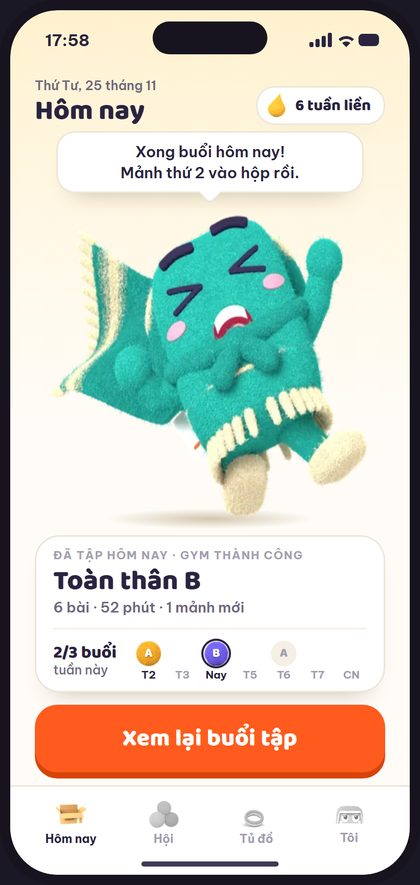
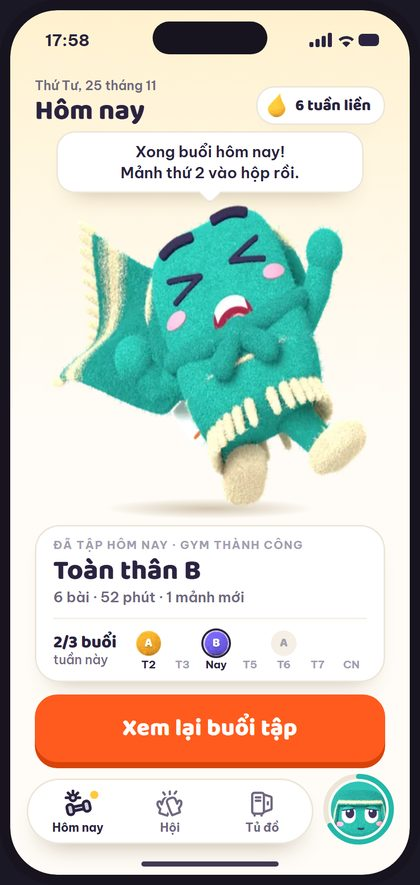
1.1: thay thanh điều hướng mới có hiệu ứng khi chạm

Changed region(s): [[0.0619, 0.2136, 0.9595, 0.9763], [0.7119, 0.9153, 0.7429, 0.9458], [0.0619, 0.9153, 0.0929, 0.9458]]

diff --git a/prototypes/1.1.html b/prototypes/1.1.html
@@ -138,6 +138,7 @@ button:focus-visible{outline:3px solid var(--ink);outline-offset:3px}
[6 lines of base64/hex data omitted]
 
@@ -194,11 +195,21 @@ button:focus-visible{outline:3px solid var(--ink);outline-offset:3px}
 .w11h .panel.lite{padding-top:4px;padding-bottom:8px}
 .w11h .linkbtn.more{margin:0 auto;height:42px;font-size:15.5px;color:var(--ink)}
 .w11h .linkbtn{margin-top:2px;height:34px}
-.tabs .off{position:absolute;margin:-30px 0 0 22px;width:10px;height:10px;border-radius:50%;background:var(--ink-3);box-shadow:0 0 0 2px #fff}
-.tabs button{position:relative}
-.tabs i{width:32px;height:30px;display:block;background-size:contain;background-repeat:no-repeat;background-position:center;filter:grayscale(1);opacity:.5}
-.tabs i.t-me{width:30px;height:28px;filter:grayscale(1) contrast(1.6);opacity:.55}
-.tabs button.on i{filter:none;opacity:1}
+/* ---------- the shared bottom nav (bar C): a white floating pill with labelled tabs + Khăn's orb as "Tôi" ----------
+   Active tab = the icon's soft fill and heavier stroke (from nav-anim.js), a bold ink label and a small yellow dot.
+   Never orange (orange is the primary button). In the flow under the CTA, 30 px above the home indicator. */
+.navg{flex:none;position:relative;z-index:6;display:flex;align-items:flex-end;gap:10px;padding:2px 16px 30px}
+.navg .navbar{flex:1;height:64px;border-radius:32px;background:#fff;box-shadow:0 0 0 1.5px var(--line) inset,0 14px 26px -16px rgba(86,60,22,.45);display:grid;grid-template-columns:repeat(3,1fr);padding:5px}
+.navg .tab{position:relative;display:flex;flex-direction:column;align-items:center;justify-content:center;gap:3px;border-radius:26px;color:var(--ink-2);font:700 11.5px/1 var(--body)}
+.navg .tab.on{color:var(--ink);font-weight:800}
+.navg .tab em{position:absolute;top:7px;right:calc(50% - 20px);width:8px;height:8px;border-radius:50%;background:#FFC93C;box-shadow:0 0 0 2px #fff;opacity:0}
+.navg .tab.on em{opacity:1}
+.navg .tab .off{position:absolute;top:8px;left:calc(50% + 10px);width:9px;height:9px;border-radius:50%;background:var(--ink-3);box-shadow:0 0 0 2px #fff}
+.navg .orb{flex:none;position:relative;width:68px;height:68px;border-radius:50%}
+.navg .orb .ring{position:absolute;inset:-1px;width:70px;height:70px}
+.navg .orb i{position:absolute;inset:7px;border-radius:50%;background-color:#2EC4B6;background-size:118% auto;background-position:50% 22%;background-repeat:no-repeat;box-shadow:inset 0 -3px 0 rgba(0,0,0,.08)}
+.navg .tab:active,.navg .orb:active{transform:scale(.95)}
+.w11h .panel{padding-bottom:10px}
 @media (prefers-reduced-motion:reduce){.zz{animation:none}}
 </style>
 
@@ -219,7 +230,7 @@ button:focus-visible{outline:3px solid var(--ink);outline-offset:3px}
       <div class="pad"><div class="card today"><span class="caps">Buổi hôm nay · Gym Thành Công</span><h3>Toàn thân B</h3><p class="meta">6 bài · khoảng 50 phút</p>
         <div class="wkrow"><span class="cnt"><b>1/3 buổi</b>tuần này</span><div class="wk"><span class="dy on pl"><i class="d-amber">A</i><em>T2</em></span><span class="dy"><i class=""></i><em>T3</em></span><span class="dy pl td"><i class="">B</i><em>Nay</em></span><span class="dy"><i class=""></i><em>T5</em></span><span class="dy pl"><i class="">A</i><em>T6</em></span><span class="dy"><i class=""></i><em>T7</em></span><span class="dy"><i class=""></i><em>CN</em></span></div></div></div></div>
       <div class="pad panel"><button class="btn-main" data-go="1.2">Vào tập</button></div>
-      <nav class="tabs"><button class="on"><i class="t-box"></i>Hôm nay</button><button class=""><i class="t-hoi"></i>Hội</button><button class=""><i class="t-wear"></i>Tủ đồ</button><button class=""><i class="t-me"></i>Tôi</button></nav>
+      <nav class="navg"><div class="navbar"><button class="tab on" data-icon="homnay" aria-current="page"><span>Hôm nay</span><em></em></button><button class="tab" data-icon="hoi"><span>Hội</span><em></em></button><button class="tab" data-icon="tudo"><span>Tủ đồ</span><em></em></button></div><button class="orb" aria-label="Tôi, tuần này 1 trên 3 buổi"><svg class="ring" viewBox="0 0 70 70" aria-hidden="true"><circle cx="35" cy="35" r="32" fill="none" stroke="#EDE5D8" stroke-width="5"/><circle cx="35" cy="35" r="32" fill="none" stroke="#22B8A9" stroke-width="5" stroke-linecap="round" stroke-dasharray="67.0 201" transform="rotate(-90 35 35)"/></svg><i class="o-face"></i></button></nav>
       <div class="toast" role="status"></div>
       <div class="home"></div>
     </div></div></div>
@@ -234,7 +245,7 @@ button:focus-visible{outline:3px solid var(--ink);outline-offset:3px}
       <div class="pad"><div class="card today"><span class="caps">Hôm nay nghỉ</span><h3>Buổi kế: Thứ Sáu</h3><p class="meta">Toàn thân A · Gym Thành Công</p>
         <div class="wkrow"><span class="cnt"><b>2/3 buổi</b>tuần này</span><div class="wk"><span class="dy on pl"><i class="d-amber">A</i><em>T2</em></span><span class="dy"><i class=""></i><em>T3</em></span><span class="dy on pl"><i class="d-violet">B</i><em>T4</em></span><span class="dy td"><i class=""></i><em>Nay</em></span><span class="dy pl"><i class="">A</i><em>T6</em></span><span class="dy"><i class=""></i><em>T7</em></span><span class="dy"><i class=""></i><em>CN</em></span></div></div></div></div>
       <div class="pad panel lite"><button class="linkbtn more" data-go="1.2">Tập thêm hôm nay</button></div>
-      <nav class="tabs"><button class="on"><i class="t-box"></i>Hôm nay</button><button class=""><i class="t-hoi"></i>Hội</button><button class=""><i class="t-wear"></i>Tủ đồ</button><button class=""><i class="t-me"></i>Tôi</button></nav>
+      <nav class="navg"><div class="navbar"><button class="tab on" data-icon="homnay" aria-current="page"><span>Hôm nay</span><em></em></button><button class="tab" data-icon="hoi"><span>Hội</span><em></em></button><button class="tab" data-icon="tudo"><span>Tủ đồ</span><em></em></button></div><button class="orb" aria-label="Tôi, tuần này 2 trên 3 buổi"><svg class="ring" viewBox="0 0 70 70" aria-hidden="true"><circle cx="35" cy="35" r="32" fill="none" stroke="#EDE5D8" stroke-width="5"/><circle cx="35" cy="35" r="32" fill="none" stroke="#22B8A9" stroke-width="5" stroke-linecap="round" stroke-dasharray="134.0 201" transform="rotate(-90 35 35)"/></svg><i class="o-face"></i></button></nav>
       <div class="toast" role="status"></div>
       <div class="home"></div>
     </div></div></div>
@@ -249,7 +260,7 @@ button:focus-visible{outline:3px solid var(--ink);outline-offset:3px}
       <div class="pad"><div class="card today"><span class="caps">Đã tập hôm nay · Gym Thành Công</span><h3>Toàn thân B</h3><p class="meta">6 bài · 52 phút · 1 mảnh mới</p>
         <div class="wkrow"><span class="cnt"><b>2/3 buổi</b>tuần này</span><div class="wk"><span class="dy on pl"><i class="d-amber">A</i><em>T2</em></span><span class="dy"><i class=""></i><em>T3</em></span><span class="dy on pl td"><i class="d-violet">B</i><em>Nay</em></span><span class="dy"><i class=""></i><em>T5</em></span><span class="dy pl"><i class="">A</i><em>T6</em></span><span class="dy"><i class=""></i><em>T7</em></span><span class="dy"><i class=""></i><em>CN</em></span></div></div></div></div>
       <div class="pad panel"><button class="btn-main" data-go="1.3">Xem lại buổi tập</button></div>
-      <nav class="tabs"><button class="on"><i class="t-box"></i>Hôm nay</button><button class=""><i class="t-hoi"></i>Hội</button><button class=""><i class="t-wear"></i>Tủ đồ</button><button class=""><i class="t-me"></i>Tôi</button></nav>
+      <nav class="navg"><div class="navbar"><button class="tab on" data-icon="homnay" aria-current="page"><span>Hôm nay</span><em></em></button><button class="tab" data-icon="hoi"><span>Hội</span><em></em></button><button class="tab" data-icon="tudo"><span>Tủ đồ</span><em></em></button></div><button class="orb" aria-label="Tôi, tuần này 2 trên 3 buổi"><svg class="ring" viewBox="0 0 70 70" aria-hidden="true"><circle cx="35" cy="35" r="32" fill="none" stroke="#EDE5D8" stroke-width="5"/><circle cx="35" cy="35" r="32" fill="none" stroke="#22B8A9" stroke-width="5" stroke-linecap="round" stroke-dasharray="134.0 201" transform="rotate(-90 35 35)"/></svg><i class="o-face"></i></button></nav>
       <div class="toast" role="status"></div>
       <div class="home"></div>
     </div></div></div>
@@ -264,7 +275,7 @@ button:focus-visible{outline:3px solid var(--ink);outline-offset:3px}
       <div class="pad"><div class="card today"><span class="caps">Tuần này đủ rồi</span><h3>Buổi kế: Thứ Hai</h3><p class="meta">Tập thêm vẫn khoẻ, nhưng không có thêm mảnh: mỗi tuần một món thôi.</p>
         <div class="wkrow"><span class="cnt"><b>3/3 buổi</b>tuần này</span><div class="wk"><span class="dy on pl"><i class="d-amber">A</i><em>T2</em></span><span class="dy"><i class=""></i><em>T3</em></span><span class="dy on pl"><i class="d-violet">B</i><em>T4</em></span><span class="dy"><i class=""></i><em>T5</em></span><span class="dy on pl"><i class="d-amber">A</i><em>T6</em></span><span class="dy td"><i class=""></i><em>Nay</em></span><span class="dy"><i class=""></i><em>CN</em></span></div></div></div></div>
       <div class="pad panel lite"><button class="linkbtn more" data-go="1.2">Tập thêm hôm nay</button></div>
-      <nav class="tabs"><button class="on"><i class="t-box"></i>Hôm nay</button><button class=""><i class="t-hoi"></i>Hội</button><button class=""><i class="t-wear"></i>Tủ đồ</button><button class=""><i class="t-me"></i>Tôi</button></nav>
+      <nav class="navg"><div class="navbar"><button class="tab on" data-icon="homnay" aria-current="page"><span>Hôm nay</span><em></em></button><button class="tab" data-icon="hoi"><span>Hội</span><em></em></button><button class="tab" data-icon="tudo"><span>Tủ đồ</span><em></em></button></div><button class="orb" aria-label="Tôi, tuần này 3 trên 3 buổi"><svg class="ring" viewBox="0 0 70 70" aria-hidden="true"><circle cx="35" cy="35" r="32" fill="none" stroke="#EDE5D8" stroke-width="5"/><circle cx="35" cy="35" r="32" fill="none" stroke="#22B8A9" stroke-width="5" stroke-linecap="round" stroke-dasharray="201.0 201" transform="rotate(-90 35 35)"/></svg><i class="o-face"></i></button></nav>
       <div class="toast" role="status"></div>
       <div class="home"></div>
     </div></div></div>
@@ -279,7 +290,7 @@ button:focus-visible{outline:3px solid var(--ink);outline-offset:3px}
       <div class="pad"><div class="card today"><span class="caps">Buổi dở dang · Gym Thành Công</span><h3>Toàn thân B</h3><p class="meta">Đã xong 3/6 bài · còn khoảng 25 phút</p>
         <div class="wkrow"><span class="cnt"><b>1/3 buổi</b>tuần này</span><div class="wk"><span class="dy on pl"><i class="d-amber">A</i><em>T2</em></span><span class="dy"><i class=""></i><em>T3</em></span><span class="dy pl td"><i class="">B</i><em>Nay</em></span><span class="dy"><i class=""></i><em>T5</em></span><span class="dy pl"><i class="">A</i><em>T6</em></span><span class="dy"><i class=""></i><em>T7</em></span><span class="dy"><i class=""></i><em>CN</em></span></div></div></div></div>
       <div class="pad panel"><button class="btn-main" data-go="1.3">Tập tiếp</button><button class="linkbtn" data-go="1.2">Bắt đầu lại buổi mới</button></div>
-      <nav class="tabs"><button class="on"><i class="t-box"></i>Hôm nay</button><button class=""><i class="t-hoi"></i>Hội</button><button class=""><i class="t-wear"></i>Tủ đồ</button><button class=""><i class="t-me"></i>Tôi</button></nav>
+      <nav class="navg"><div class="navbar"><button class="tab on" data-icon="homnay" aria-current="page"><span>Hôm nay</span><em></em></button><button class="tab" data-icon="hoi"><span>Hội</span><em></em></button><button class="tab" data-icon="tudo"><span>Tủ đồ</span><em></em></button></div><button class="orb" aria-label="Tôi, tuần này 1 trên 3 buổi"><svg class="ring" viewBox="0 0 70 70" aria-hidden="true"><circle cx="35" cy="35" r="32" fill="none" stroke="#EDE5D8" stroke-width="5"/><circle cx="35" cy="35" r="32" fill="none" stroke="#22B8A9" stroke-width="5" stroke-linecap="round" stroke-dasharray="67.0 201" transform="rotate(-90 35 35)"/></svg><i class="o-face"></i></button></nav>
       <div class="toast" role="status"></div>
       <div class="home"></div>
     </div></div></div>
@@ -294,7 +305,7 @@ button:focus-visible{outline:3px solid var(--ink);outline-offset:3px}
       <div class="pad"><div class="card today"><span class="caps">Buổi quay lại · Gym Thành Công</span><h3>Toàn thân A</h3><p class="meta">6 bài · khoảng 50 phút</p><p class="note">Vắng 3 tuần nên tạ nhẹ hơn một chút trong vài buổi đầu.</p>
         <div class="wkrow"><span class="cnt"><b>0/3 buổi</b>tuần này</span><div class="wk"><span class="dy pl"><i class="">A</i><em>T2</em></span><span class="dy"><i class=""></i><em>T3</em></span><span class="dy pl td"><i class="">B</i><em>Nay</em></span><span class="dy"><i class=""></i><em>T5</em></span><span class="dy pl"><i class="">A</i><em>T6</em></span><span class="dy"><i class=""></i><em>T7</em></span><span class="dy"><i class=""></i><em>CN</em></span></div></div></div></div>
       <div class="pad panel"><button class="btn-main" data-go="1.2">Vào tập</button></div>
-      <nav class="tabs"><button class="on"><i class="t-box"></i>Hôm nay</button><button class=""><i class="t-hoi"></i>Hội</button><button class=""><i class="t-wear"></i>Tủ đồ</button><button class=""><i class="t-me"></i>Tôi</button></nav>
+      <nav class="navg"><div class="navbar"><button class="tab on" data-icon="homnay" aria-current="page"><span>Hôm nay</span><em></em></button><button class="tab" data-icon="hoi"><span>Hội</span><em></em></button><button class="tab" data-icon="tudo"><span>Tủ đồ</span><em></em></button></div><button class="orb" aria-label="Tôi, tuần này 0 trên 3 buổi"><svg class="ring" viewBox="0 0 70 70" aria-hidden="true"><circle cx="35" cy="35" r="32" fill="none" stroke="#EDE5D8" stroke-width="5"/><circle cx="35" cy="35" r="32" fill="none" stroke="#22B8A9" stroke-width="5" stroke-linecap="round" stroke-dasharray="0.0 201" transform="rotate(-90 35 35)"/></svg><i class="o-face"></i></button></nav>
       <div class="toast" role="status"></div>
       <div class="home"></div>
     </div></div></div>
@@ -309,7 +320,7 @@ button:focus-visible{outline:3px solid var(--ink);outline-offset:3px}
       <div class="pad"><div class="card today"><span class="caps">Tuần nghỉ có phép</span><h3>Còn 4 ngày nghỉ</h3><p class="meta">Thứ Hai tuần sau Khăn rủ chủ quay lại.</p>
         <div class="wkrow"><span class="cnt"><b>Nghỉ</b>tuần này</span><div class="wk"><span class="dy"><i class=""></i><em>T2</em></span><span class="dy"><i class=""></i><em>T3</em></span><span class="dy td"><i class=""></i><em>Nay</em></span><span class="dy"><i class=""></i><em>T5</em></span><span class="dy"><i class=""></i><em>T6</em></span><span class="dy"><i class=""></i><em>T7</em></span><span class="dy"><i class=""></i><em>CN</em></span></div></div></div></div>
       <div class="pad panel lite"><button class="linkbtn more" data-go="1.2">Tập thêm hôm nay</button></div>
-      <nav class="tabs"><button class="on"><i class="t-box"></i>Hôm nay</button><button class=""><i class="t-hoi"></i>Hội</button><button class=""><i class="t-wear"></i>Tủ đồ</button><button class=""><i class="t-me"></i>Tôi</button></nav>
+      <nav class="navg"><div class="navbar"><button class="tab on" data-icon="homnay" aria-current="page"><span>Hôm nay</span><em></em></button><button class="tab" data-icon="hoi"><span>Hội</span><em></em></button><button class="tab" data-icon="tudo"><span>Tủ đồ</span><em></em></button></div><button class="orb" aria-label="Tôi, tuần này 0 trên 3 buổi"><svg class="ring" viewBox="0 0 70 70" aria-hidden="true"><circle cx="35" cy="35" r="32" fill="none" stroke="#EDE5D8" stroke-width="5"/><circle cx="35" cy="35" r="32" fill="none" stroke="#22B8A9" stroke-width="5" stroke-linecap="round" stroke-dasharray="0.0 201" transform="rotate(-90 35 35)"/></svg><i class="o-face"></i></button></nav>
       <div class="toast" role="status"></div>
       <div class="home"></div>
     </div></div></div>
@@ -324,7 +335,7 @@ button:focus-visible{outline:3px solid var(--ink);outline-offset:3px}
       <div class="pad"><div class="card today"><span class="caps">Buổi đầu tiên · Gym Thành Công</span><h3>Toàn thân A</h3><p class="meta">6 bài · khoảng 50 phút</p>
         <div class="wkrow"><span class="cnt"><b>0/3 buổi</b>tuần này</span><div class="wk"><span class="dy pl"><i class="">A</i><em>T2</em></span><span class="dy"><i class=""></i><em>T3</em></span><span class="dy pl td"><i class="">B</i><em>Nay</em></span><span class="dy"><i class=""></i><em>T5</em></span><span class="dy pl"><i class="">A</i><em>T6</em></span><span class="dy"><i class=""></i><em>T7</em></span><span class="dy"><i class=""></i><em>CN</em></span></div></div></div></div>
       <div class="pad panel"><button class="btn-main" data-go="1.2">Vào tập</button></div>
-      <nav class="tabs"><button class="on"><i class="t-box"></i>Hôm nay</button><button class=""><i class="t-hoi"></i>Hội<em class="off" aria-label="Mất mạng"></em></button><button class=""><i class="t-wear"></i>Tủ đồ</button><button class=""><i class="t-me"></i>Tôi</button></nav>
+      <nav class="navg"><div class="navbar"><button class="tab on" data-icon="homnay" aria-current="page"><span>Hôm nay</span><em></em></button><button class="tab" data-icon="hoi"><span>Hội</span><em></em><i class="off" aria-label="Mất mạng"></i></button><button class="tab" data-icon="tudo"><span>Tủ đồ</span><em></em></button></div><button class="orb" aria-label="Tôi, tuần này 0 trên 3 buổi"><svg class="ring" viewBox="0 0 70 70" aria-hidden="true"><circle cx="35" cy="35" r="32" fill="none" stroke="#EDE5D8" stroke-width="5"/><circle cx="35" cy="35" r="32" fill="none" stroke="#22B8A9" stroke-width="5" stroke-linecap="round" stroke-dasharray="0.0 201" transform="rotate(-90 35 35)"/></svg><i class="o-face"></i></button></nav>
       <div class="toast" role="status"></div>
       <div class="home"></div>
     </div></div></div>
@@ -341,7 +352,151 @@ button:focus-visible{outline:3px solid var(--ink);outline-offset:3px}
     var ts=sc.querySelector('.toast');
     sc.querySelectorAll('[data-go]').forEach(function(b){b.addEventListener('click',function(){toast(ts,'Bản mẫu: sang '+b.dataset.go+'.')})});
     sc.querySelectorAll('.strip').forEach(function(b){b.addEventListener('click',function(){toast(ts,'Bản mẫu: sang 6.11.')})});
-    sc.querySelectorAll('.tabs button:not(.on)').forEach(function(b){b.addEventListener('click',function(){toast(ts,'Bản mẫu: tab '+b.textContent.trim()+'.')})});
+    var NAME={hoi:'Hội',tudo:'Tủ đồ'},home=sc.querySelector('.navbar .tab[data-icon="homnay"]');
+    sc.addEventListener('navtab',function(e){var k=e.detail.icon;if(k==='homnay')return;toast(ts,'Bản mẫu: tab '+NAME[k]+' chưa có bản thiết kế.');clearTimeout(sc._nt);sc._nt=setTimeout(function(){TaNhoNav.select(home,true)},1500)});
+    var orb=sc.querySelector('.navg .orb');if(orb)orb.addEventListener('click',function(){toast(ts,'Bản mẫu: tab Tôi chưa có bản thiết kế.')});
   });
 })();
+</script>
+<script>
+/* Tạ Nhỏ · nav icons + tap animations. Self-contained: no CSS file, no dependencies.
+ *
+ * Markup it expects (class names are the contract):
+ *   <nav class="navbar">
+ *     <button class="tab" data-icon="homnay" aria-current="page">Hôm nay</button>
+ *     <button class="tab" data-icon="hoi">Hội</button>
+ *     <button class="tab" data-icon="tudo">Tủ đồ</button>
+ *   </nav>
+ *   <script src="nav-icons/nav-anim.js"><\/script>
+ *
+ * On load it (1) draws the icon into every .tab[data-icon] that has no <svg> yet, as the first child,
+ * (2) on a tap marks that tab current (class "on" + aria-current="page"), clears the others,
+ * plays the icon's animation and pops the dot (.tab em or .tab .dot, if there is one),
+ * (3) fires a bubbling "navtab" CustomEvent on the tab, detail = {icon: "hoi"}, for routing.
+ * The icon uses currentColor; the current tab gets the soft fill and the heavier stroke from the CSS below.
+ * prefers-reduced-motion: one small scale pop instead of the moving parts.
+ * Bars added later: TaNhoNav.init(rootElement). Manual: TaNhoNav.select(tab), TaNhoNav.play(tab), TaNhoNav.svg("hoi").
+ */
+(function () {
+  'use strict';
+  var ICONS = {
+ "homnay": "<mask id=\"@@NIID@@\" maskUnits=\"userSpaceOnUse\" x=\"0\" y=\"0\" width=\"24\" height=\"24\"><rect width=\"24\" height=\"24\" fill=\"#fff\" stroke=\"none\"/><g class=\"ni-db\" style=\"transform-origin:12.6px 20.7px\"><g transform=\"rotate(-12 12.6 15.2)\" fill=\"#000\" stroke=\"#000\" stroke-width=\"4.4\"><rect x=\"3\" y=\"10.9\" width=\"5.3\" height=\"8.6\" rx=\"2.4\"/><rect x=\"16.9\" y=\"10.9\" width=\"5.3\" height=\"8.6\" rx=\"2.4\"/><path d=\"M8.3 13.5h8.6v3.4H8.3z\"/></g></g></mask><g mask=\"url(#@@NIID@@)\"><g class=\"ni-sun\" style=\"transform-origin:7.9px 6.7px\"><g class=\"ni-tint\" fill=\"currentColor\" stroke=\"none\" opacity=\"0\"><circle cx=\"7.9\" cy=\"6.7\" r=\"2.6\"/></g><circle cx=\"7.9\" cy=\"6.7\" r=\"2.6\"/><path d=\"M12.30 6.70L13.70 6.70M11.01 3.59L12.00 2.60M7.90 2.30L7.90 0.90M4.79 3.59L3.80 2.60M3.50 6.70L2.10 6.70\"/></g></g><g class=\"ni-db\" style=\"transform-origin:12.6px 20.7px\"><g transform=\"rotate(-12 12.6 15.2)\"><g class=\"ni-tint\" fill=\"currentColor\" stroke=\"none\" opacity=\"0\"><rect x=\"3\" y=\"10.9\" width=\"5.3\" height=\"8.6\" rx=\"2.4\"/><rect x=\"16.9\" y=\"10.9\" width=\"5.3\" height=\"8.6\" rx=\"2.4\"/><path d=\"M8.3 13.5h8.6v3.4H8.3z\"/></g><rect x=\"3\" y=\"10.9\" width=\"5.3\" height=\"8.6\" rx=\"2.4\"/><rect x=\"16.9\" y=\"10.9\" width=\"5.3\" height=\"8.6\" rx=\"2.4\"/><path d=\"M8.3 13.5h8.6M8.3 16.9h8.6\"/></g></g>",
+ "hoi": "<mask id=\"@@NIID@@\" maskUnits=\"userSpaceOnUse\" x=\"0\" y=\"0\" width=\"24\" height=\"24\"><rect width=\"24\" height=\"24\" fill=\"#fff\" stroke=\"none\"/><g class=\"ni-hand-r\" style=\"transform-origin:17.4px 20.4px\"><path transform=\"translate(16.9 19.6) scale(-1 1) rotate(21)\" d=\"M-3.43 0.51-3.81-3.05C-5.59-3.81-7.24-5.33-7.49-6.99-7.75-8.64-5.97-9.4-4.95-8.26L-3.81-6.99V-10.54C-3.81-12.19-2.54-13.34-1.02-13.34H1.02C2.54-13.34 3.81-12.19 3.81-10.54V-3.05L3.43 0.51Z\" fill=\"#000\" stroke=\"#000\" stroke-width=\"4\"/></g></mask><g mask=\"url(#@@NIID@@)\"><g class=\"ni-hand-l\" style=\"transform-origin:6.6px 21px\"><g transform=\"translate(6.5 20.1) rotate(18)\"><g class=\"ni-tint\" fill=\"currentColor\" stroke=\"none\" opacity=\"0\"><path d=\"M-3.43 0.51-3.81-3.05C-5.59-3.81-7.24-5.33-7.49-6.99-7.75-8.64-5.97-9.4-4.95-8.26L-3.81-6.99V-10.54C-3.81-12.19-2.54-13.34-1.02-13.34H1.02C2.54-13.34 3.81-12.19 3.81-10.54V-3.05L3.43 0.51Z\"/></g><path d=\"M-3.43 0.51-3.81-3.05C-5.59-3.81-7.24-5.33-7.49-6.99-7.75-8.64-5.97-9.4-4.95-8.26L-3.81-6.99V-10.54C-3.81-12.19-2.54-13.34-1.02-13.34H1.02C2.54-13.34 3.81-12.19 3.81-10.54V-3.05L3.43 0.51Z\"/></g></g></g><g class=\"ni-hand-r\" style=\"transform-origin:17.4px 20.4px\"><g transform=\"translate(16.9 19.6) scale(-1 1) rotate(21)\"><g class=\"ni-tint\" fill=\"currentColor\" stroke=\"none\" opacity=\"0\"><path d=\"M-3.43 0.51-3.81-3.05C-5.59-3.81-7.24-5.33-7.49-6.99-7.75-8.64-5.97-9.4-4.95-8.26L-3.81-6.99V-10.54C-3.81-12.19-2.54-13.34-1.02-13.34H1.02C2.54-13.34 3.81-12.19 3.81-10.54V-3.05L3.43 0.51Z\"/></g><path d=\"M-3.43 0.51-3.81-3.05C-5.59-3.81-7.24-5.33-7.49-6.99-7.75-8.64-5.97-9.4-4.95-8.26L-3.81-6.99V-10.54C-3.81-12.19-2.54-13.34-1.02-13.34H1.02C2.54-13.34 3.81-12.19 3.81-10.54V-3.05L3.43 0.51Z\"/></g></g><path class=\"ni-burst\" style=\"transform-origin:12px 6.5px\" d=\"M11.8 1.5v2.2M7.6 4 6.3 2.3M15.9 3.2l1.3-1.7\"/>",
+ "tudo": "<g class=\"ni-body\"><g class=\"ni-tint\" fill=\"currentColor\" stroke=\"none\" opacity=\"0\"><rect x=\"3.6\" y=\"2.6\" width=\"9.8\" height=\"17.4\" rx=\"1.8\"/></g><rect x=\"3.6\" y=\"2.6\" width=\"9.8\" height=\"17.4\" rx=\"1.8\"/><path d=\"M6.6 6.4h3.8M6.6 9.2h3.8M5.6 20v1.6M11.4 20v1.6\"/></g><path class=\"ni-sock\" opacity=\"0\" style=\"transform-origin:13.4px 19.6px\" d=\"M14.3 18.2h2.3a1.5 1.5 0 0 1 0 3h-2.3\"/><g class=\"ni-door\" style=\"transform-origin:13.4px 11px\"><g class=\"ni-tint\" fill=\"currentColor\" stroke=\"none\" opacity=\"0\"><path d=\"M13.4 4l5.5 1.7a1.2 1.2 0 0 1 .9 1.2v8.6a1.2 1.2 0 0 1-.9 1.2l-5.5 1.9\"/></g><path d=\"M13.4 4l5.5 1.7a1.2 1.2 0 0 1 .9 1.2v8.6a1.2 1.2 0 0 1-.9 1.2l-5.5 1.9\"/><path d=\"M16.7 10.4v1.8\"/></g>"
+};
+  var CSS = '.navbar .tab svg.ni{display:block;overflow:visible;stroke-width:1.9;transition:stroke-width .18s ease-out}' +
+    '.navbar .tab[aria-current="page"] svg.ni{stroke-width:2.3}' +
+    '.navbar .tab svg.ni .ni-tint{opacity:0;transition:opacity .18s ease-out}' +
+    '.navbar .tab[aria-current="page"] svg.ni .ni-tint{opacity:.2}';
+  var POP = 'cubic-bezier(.34,1.56,.64,1)', OUT = 'cubic-bezier(.22,1,.36,1)';
+  var n = 0;
+  var reduced = window.matchMedia ? window.matchMedia('(prefers-reduced-motion: reduce)') : { matches: false };
+
+  function svg(name, size) {
+    size = size || 28;
+    return '<svg class="ni" data-icon="' + name + '" width="' + size + '" height="' + size + '" viewBox="0 0 24 24" fill="none" stroke="currentColor" ' +
+      'stroke-linecap="round" stroke-linejoin="round" aria-hidden="true">' + ICONS[name].split('@@NIID@@').join('ni-k' + (++n)) + '</svg>';
+  }
+  function run(root, sel, frames, ms, easing) {
+    var out = [];
+    root.querySelectorAll(sel).forEach(function (el) {
+      if (el.animate) out.push(el.animate(frames, { duration: ms, easing: easing || 'ease-out' }));
+    });
+    return out;
+  }
+  var ANIM = {
+    // the dumbbell hops and lands with a small squash; the sun behind it swells and rocks once (a twinkle)
+    homnay: function (s) {
+      return run(s, '.ni-db', [
+        { transform: 'translateY(0) scale(1,1)' },
+        { transform: 'translateY(-2.6px) scale(.96,1.06)', offset: .34 },
+        { transform: 'translateY(.2px) scale(1.07,.9)', offset: .64 },
+        { transform: 'translateY(0) scale(.99,1.02)', offset: .84 },
+        { transform: 'translateY(0) scale(1,1)' }], 520)
+        .concat(run(s, '.ni-sun', [
+          { transform: 'rotate(0deg) scale(1)' },
+          { transform: 'rotate(-16deg) scale(1.16)', offset: .4 },
+          { transform: 'rotate(8deg) scale(1.04)', offset: .72 },
+          { transform: 'rotate(0deg) scale(1)' }], 560));
+    },
+    // the palms pull apart, clap a touch past rest, settle; the burst pops out at the moment of contact
+    hoi: function (s) {
+      function swing(sign) {
+        return [{ transform: 'rotate(0deg)' },
+          { transform: 'rotate(' + (-13 * sign) + 'deg)', offset: .36 },
+          { transform: 'rotate(' + (4 * sign) + 'deg)', offset: .62 },
+          { transform: 'rotate(' + (-1 * sign) + 'deg)', offset: .82 },
+          { transform: 'rotate(0deg)' }];
+      }
+      return run(s, '.ni-hand-l', swing(1), 500).concat(run(s, '.ni-hand-r', swing(-1), 500),
+        run(s, '.ni-burst', [
+          { opacity: 0, transform: 'scale(.4)' },
+          { opacity: 0, transform: 'scale(.4)', offset: .5 },
+          { opacity: 1, transform: 'scale(1.3)', offset: .74 },
+          { opacity: 1, transform: 'scale(1)' }], 520));
+    },
+    // the door swings to and back with a little overshoot; a sock tip peeks out underneath, then ducks back in
+    tudo: function (s) {
+      return run(s, '.ni-door', [
+        { transform: 'scaleX(1)' },
+        { transform: 'scaleX(.52)', offset: .34 },
+        { transform: 'scaleX(.52)', offset: .56 },
+        { transform: 'scaleX(1.1)', offset: .82 },
+        { transform: 'scaleX(1)' }], 600)
+        .concat(run(s, '.ni-sock', [
+          { opacity: 0, transform: 'scaleX(0)' },
+          { opacity: 1, transform: 'scaleX(0)', offset: .16 },
+          { opacity: 1, transform: 'scaleX(1.12)', offset: .4 },
+          { opacity: 1, transform: 'scaleX(1)', offset: .58 },
+          { opacity: 1, transform: 'scaleX(0)', offset: .86 },
+          { opacity: 0, transform: 'scaleX(0)' }], 600));
+    }
+  };
+  function play(tab) {
+    var s = tab.querySelector('svg.ni');
+    if (!s || !s.animate) return [];
+    (s.getAnimations ? s.getAnimations({ subtree: true }) : []).forEach(function (a) { a.cancel(); });
+    if (reduced.matches) return [s.animate([{ transform: 'scale(1)' }, { transform: 'scale(1.1)' }, { transform: 'scale(1)' }], { duration: 200, easing: 'ease-out' })];
+    var f = ANIM[s.getAttribute('data-icon')];
+    var out = f ? f(s) : [];
+    var dot = tab.querySelector('em,.dot');
+    if (dot && dot.animate) out.push(dot.animate([{ transform: 'scale(0)' }, { transform: 'scale(1)' }], { duration: 380, easing: POP }));
+    return out;
+  }
+  function select(tab, silent) {
+    var bar = tab.closest('.navbar');
+    if (!bar) return [];
+    bar.querySelectorAll('.tab').forEach(function (t) {
+      var on = t === tab;
+      t.classList.toggle('on', on);
+      t.setAttribute('aria-current', on ? 'page' : 'false');
+    });
+    var out = silent ? [] : play(tab);
+    tab.dispatchEvent(new CustomEvent('navtab', { bubbles: true, detail: { icon: tab.getAttribute('data-icon') } }));
+    return out;
+  }
+  function init(root) {
+    root = root || document;
+    if (!document.getElementById('ni-css')) {
+      var st = document.createElement('style'); st.id = 'ni-css'; st.textContent = CSS; document.head.appendChild(st);
+    }
+    var bars = root.matches && root.matches('.navbar') ? [root] : root.querySelectorAll('.navbar');
+    Array.prototype.forEach.call(bars, function (bar) {
+      bar.querySelectorAll('.tab[data-icon]').forEach(function (t) {
+        var k = t.getAttribute('data-icon');
+        if (ICONS[k] && !t.querySelector('svg')) t.insertAdjacentHTML('afterbegin', svg(k));
+      });
+      if (bar.__ni) return;
+      bar.__ni = true;
+      bar.addEventListener('click', function (e) {
+        var t = e.target.closest ? e.target.closest('.tab') : null;
+        if (t && bar.contains(t)) select(t);
+      });
+    });
+  }
+  window.TaNhoNav = { init: init, select: select, play: play, svg: svg };
+  if (document.readyState === 'loading') document.addEventListener('DOMContentLoaded', function () { init(document); });
+  else init(document);
+})();
+
 </script>

diff --git a/design/review-checklist.md b/design/review-checklist.md
@@ -128,3 +128,12 @@ Tổng hợp từ các lượt so mù màn 0.1–0.7 và bản v2. Người dự
 - **Đuôi bong bóng chỉ về phía nhân vật**; bong bóng chính tối đa 3 dòng.
 - **Dấu chấm trang trí cũng là viên nỉ**, không dùng chấm phẳng.
 - Hình người dùng để chọn vùng: tay dang ra để cổ tay không trùng hông; khung hình co theo bề ngang để không cắt mất tay.
+
+## Thanh điều hướng (chốt 2026-11-26)
+- **Mẫu duy nhất: thanh C.** Viên thuốc trắng nổi, ba mục có chữ (Hôm nay, Hội, Tủ đồ); quả cầu Khăn đứng riêng bên phải là mục Tôi, có vòng tiến độ tuần màu xanh ngọc (số buổi đã tập / lời hứa N).
+- **Mục đang chọn:** biểu tượng tô nhạt và nét dày hơn, chữ đậm màu mực, chấm vàng nhỏ #FFC93C. Không dùng màu cam (cam chỉ cho nút chính).
+- **Biểu tượng và hiệu ứng chạm** là bộ cuối trong `design/nav-icons/` (sáu SVG + `nav-anim.js`), không vẽ lại riêng từng màn.
+- **Màn mới bắt buộc dùng markup chung:** `<nav class="navg"><div class="navbar"><button class="tab" data-icon="homnay|hoi|tudo">…</button></div><button class="orb">…</button></nav>`, sinh bằng hàm `tabbar()` trong `screen-1.1-1.3-src/screens1x.py`, và CSS khối "shared bottom nav" trong `t11h.html`.
+- Bản bấm thử phải là một file HTML: **nhúng thẳng** `nav-anim.js` vào trang (thay `{{id}}` bằng một mã khác để qua bước kiểm tra chỗ trống của script dựng, và thoát chuỗi `</script` trong phần chú thích, nếu không khối script bị cắt giữa chừng và biểu tượng không hiện).
+- Thanh nằm trong dòng chảy dưới nút chính (không đè lên nút "Vào tập"), cách thanh home 30px.
+- Trong bản mẫu, chạm Hội, Tủ đồ, Tôi chỉ hiện toast "Bản mẫu: tab … chưa có bản thiết kế." rồi trả mục chọn về; không dùng chữ "sang <mã>" khi màn đó chưa có.
